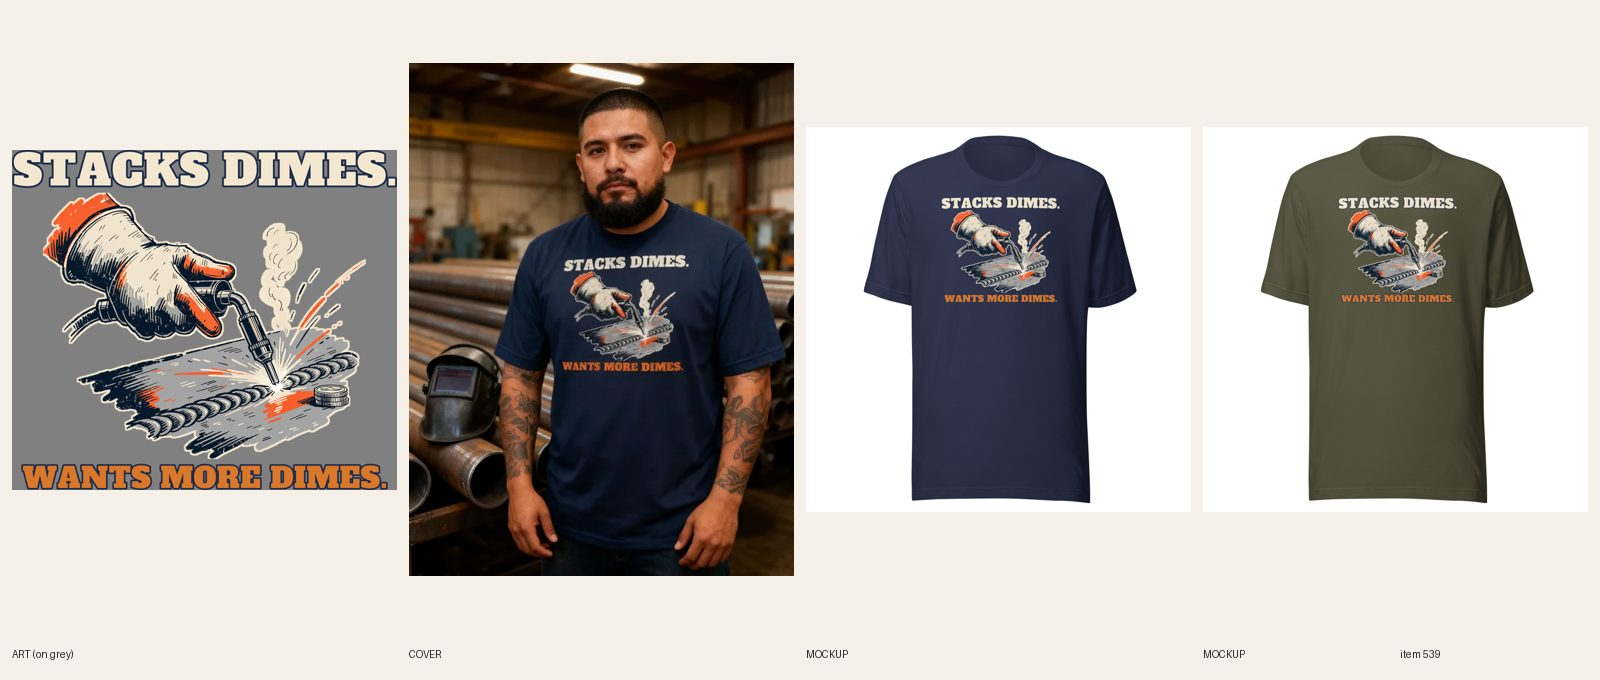
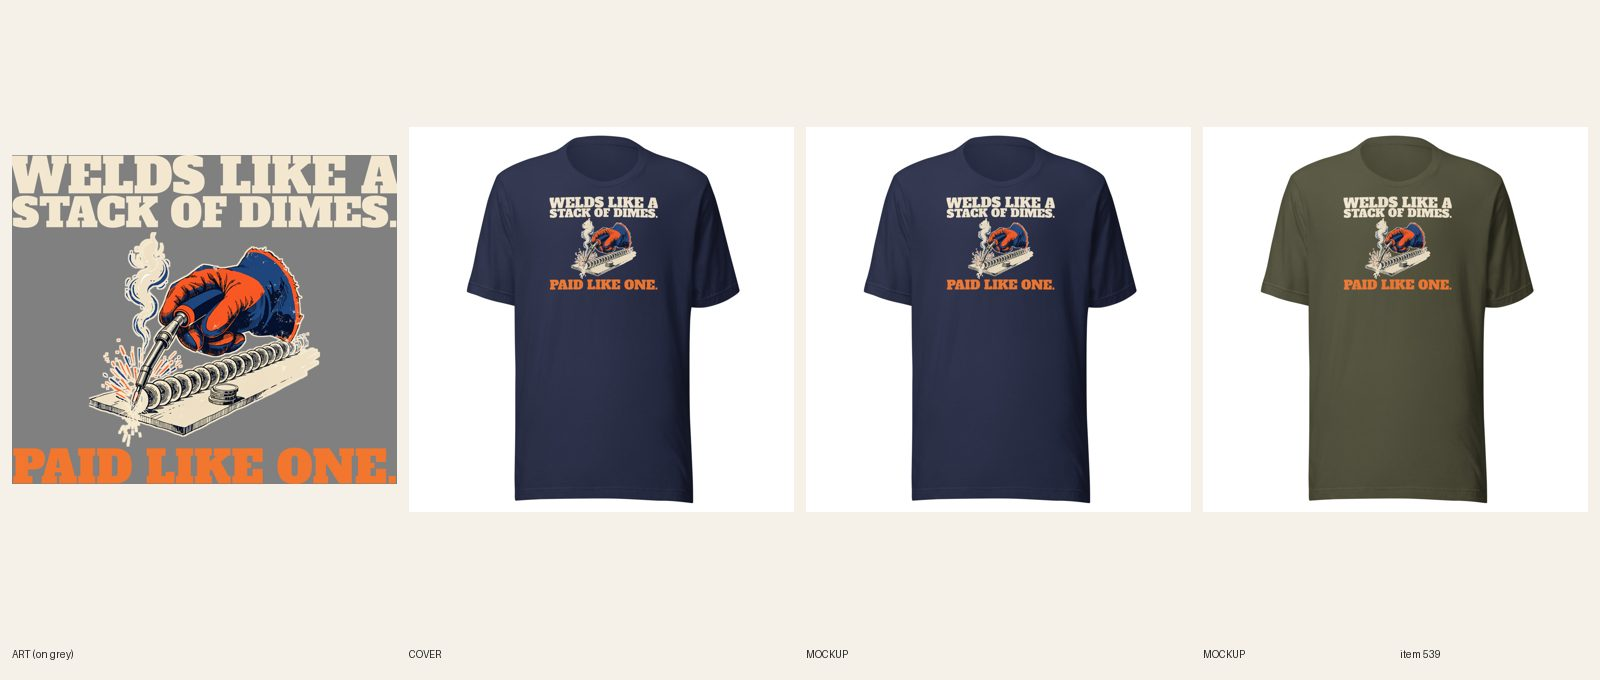
[E] review 539 redid #539 Men's Welder tee (line + type: WELDS LIKE A STACK OF DIMES. PAID LIKE ONE., new TIG-weld-of-dimes art, one cream-and-orange file on 5 dark colors, 35/35 synced, copy updated, plain product shot). REVIEW. fal $0.04.

Changed region(s): [[0.0, 0.0926, 0.5, 0.8647], [0.8125, 0.2779, 0.9062, 0.4632], [0.5938, 0.2779, 0.6562, 0.4632]]

diff --git a/scripts/e-lockup.py b/scripts/e-lockup.py
@@ -32,7 +32,14 @@ if S.get('halo'):
     ring = Image.new('RGBA', art.size, S.get('halo_fill', '#f3e7cf')); ring.putalpha(grown)
     pad = Image.new('RGBA', (art.width + 2 * r, art.height + 2 * r), (0, 0, 0, 0)); pad.alpha_composite(ring, (r, r)); pad.alpha_composite(art, (r, r)); art = pad
 gap = S.get('gap', 30)
-l1 = line(S['top'], W); l2 = line(S['bottom'], W if S['bottom'].get('ref', 'W') == 'W' else art.width)
+def stack(d):
+    parts = d['text'].split('|')
+    ims = [line(dict(d, text=t), W) for t in parts]
+    if len(ims) == 1: return ims[0]
+    h = sum(i.height for i in ims) + 14 * (len(ims) - 1); o = Image.new('RGBA', (max(i.width for i in ims), h), (0, 0, 0, 0)); y = 0
+    for i in ims: o.alpha_composite(i, ((o.width - i.width) // 2, y)); y += i.height + 14
+    return o
+l1 = stack(S['top']); l2 = line(S['bottom'], W if S['bottom'].get('ref', 'W') == 'W' else art.width)
 ov = int(art.height * S.get('overlap', 0.10))
 H = l1.height + gap + art.height + l2.height - ov
 o = Image.new('RGBA', (W, H), (0, 0, 0, 0))

diff --git a/docs/pipeline/539-welder-tee-stacks-dimes.md b/docs/pipeline/539-welder-tee-stacks-dimes.md
@@ -1,4 +1,4 @@
-status: REDO
+status: REVIEW
 lane: E
 type: new
 id: 539
@@ -32,3 +32,4 @@ kd: 34
 - 2026-10-18 07:59 UTC builder [E]: sync 35/35 confirmed. REVIEW.
 - 2026-10-18 08:19 UTC director: LIVE. Sheet reviewed (R3, R4/R5, R6, R8, R13.3); copy fix: FAQ said dark-ink print on dark shirts. ACTIVE + Online Store, Headless, Google & YouTube; cohesion-audit --handle PASS 0 warn.
 - 2026-10-18 17:22 UTC director: QUALITY RESET grade C (new line + type), REDO. The product stays ACTIVE (same handle, URL, title keyword). 1. Line (R3.12, quality-reset 'Lines'): "STACKS DIMES. / WANTS MORE DIMES.": Welding insider pun; strangers do not know stacking dimes. Write 5 candidates, keep the one a stranger laughs at in 3 seconds without backstory; kill lines that only describe the picture; if none of the 5 is funny, PARK it. 2. Quality reset type bar (docs/backlog/quality-reset.md, 'The new bar'): headline at least 90% of the art width, heavy, colors pulled from the art; second line at least 45% of the headline's height, never a thin script on a dark or mid garment; use the lettering as a shape (arch, stacked lockup, words breaking into the art), not a plain bar above and a script line below; no font used on more than 1 in 6 of the last 30 designs. 3. Keep the art if it carries the new line, else one new illustration (R4/R5). New print means a new cover per R6.10, copy line one rewritten for the new joke (R8.3), and a fresh review sheet (R7.7). While quality-reset.md says PAUSED, only lane A builds, and only the samples step 2 names.
+- 2026-10-20 06:32 UTC builder [E]: REDO 539 (C grade, line + type) done on the existing product (stays ACTIVE, handle unchanged). 5 candidates: "WELDS LIKE A STACK OF DIMES. PAID LIKE ONE."; "Perfect Beads, Imperfect Paycheck"; "Stacks Dimes. Wants More Dimes." (old); "My Welds Are Flawless. My Raise Isn't."; "Hot Work, Cold Pay". Kept WELDS LIKE A STACK OF DIMES. / PAID LIKE ONE. (the weld term turned into a pay line; the art is literally a weld made of dimes, 3 seconds). One new Recraft call ($0.04): gloved hand TIG-welding a row of dimes on a steel plate, small stack of plain coins, no words. Alfa Slab One: the first try with one long top line was too small at phone size (about 49% of the bottom line), so the top is two stacked lines at full print width. Cream + safety orange, thin cream halo so the navy glove reads on Navy and Black. All five colors dark: cream-fill file, no light color offered. FW 1500 TOP 75, 35/35 synced on the new file per color (one earlier sync run was killed before relinking), back logo kept. 5 fronts replaced in place, alts updated, title/SEO/copy/FAQs rewritten. Cover: handle added to retired-covers.json (plain product shot). Phone-size read OK on all five. audit --handle PASS 0 warn; astro build OK. fal $0.04. Sheet docs/review/539.jpg.

diff --git a/docs/intake-log.md b/docs/intake-log.md
@@ -13,6 +13,7 @@ RUNNING lane B since 2026-10-20 05:30 UTC
 2026-10-20 06:03 UTC — [B] Builder run: redid #404 round 2 (MAIN QUEST / POSTPONED., punch widened to headline width. headline 3593 px / punch 3593 px). REVIEW. fal $0.
 2026-10-20 06:08 UTC — [B] Builder run: redid #485 Unisex Embroidered raccoon hoodie (line + type: MILE ONE. / SNACKS GONE., same raccoon thread art, burnt orange thread, 12/12 synced). REVIEW. fal $0.
 2026-10-20 06:11 UTC — [E] Builder run: redid #451 Women's Unicorn zip hoodie (line + type: SLEEP IS A MYTH. / SO AM I., new armchair-unicorn art, Alfa Slab One, Navy + Ash dark-ink file, new chest copy, 12/12 synced). REVIEW. fal $0.04.
+2026-10-20 06:32 UTC — [E] Builder run: redid #539 Men's Welder tee (line + type: WELDS LIKE A STACK OF DIMES. PAID LIKE ONE., new TIG-weld-of-dimes art, one cream-and-orange file on 5 dark colors, 35/35 synced, copy updated, plain product shot). REVIEW. fal $0.04.
 2026-10-20 05:46 UTC — [B] Builder run: redid #280 Women's Thanksgiving pumpkin hoodie round 2 (R3.7.8: punch THE WARM-UP. widened to headline width, 3600/3600 px, Navy + Sand, 12/12 synced). REVIEW. fal $0.
 2026-10-20 05:53 UTC — [E] Builder run: redid #438 Women's Panda zip hoodie (line + type: ENDANGERED / MORNING PERSON., new sleepy-panda-in-bed art, Bowlby One, Navy + Ash dark-ink file, new head chest copy, 12/12 synced). REVIEW. fal $0.04.
 2026-10-20 05:57 UTC — [B] Builder run: redid #473 Unisex Embroidered hoodie (line + type: CIRCLE / BACK / NEVER., new stacked lettering in thread, Sand #333366 + Navy #FFFFFF, 12/12 synced). REVIEW. fal $0.
